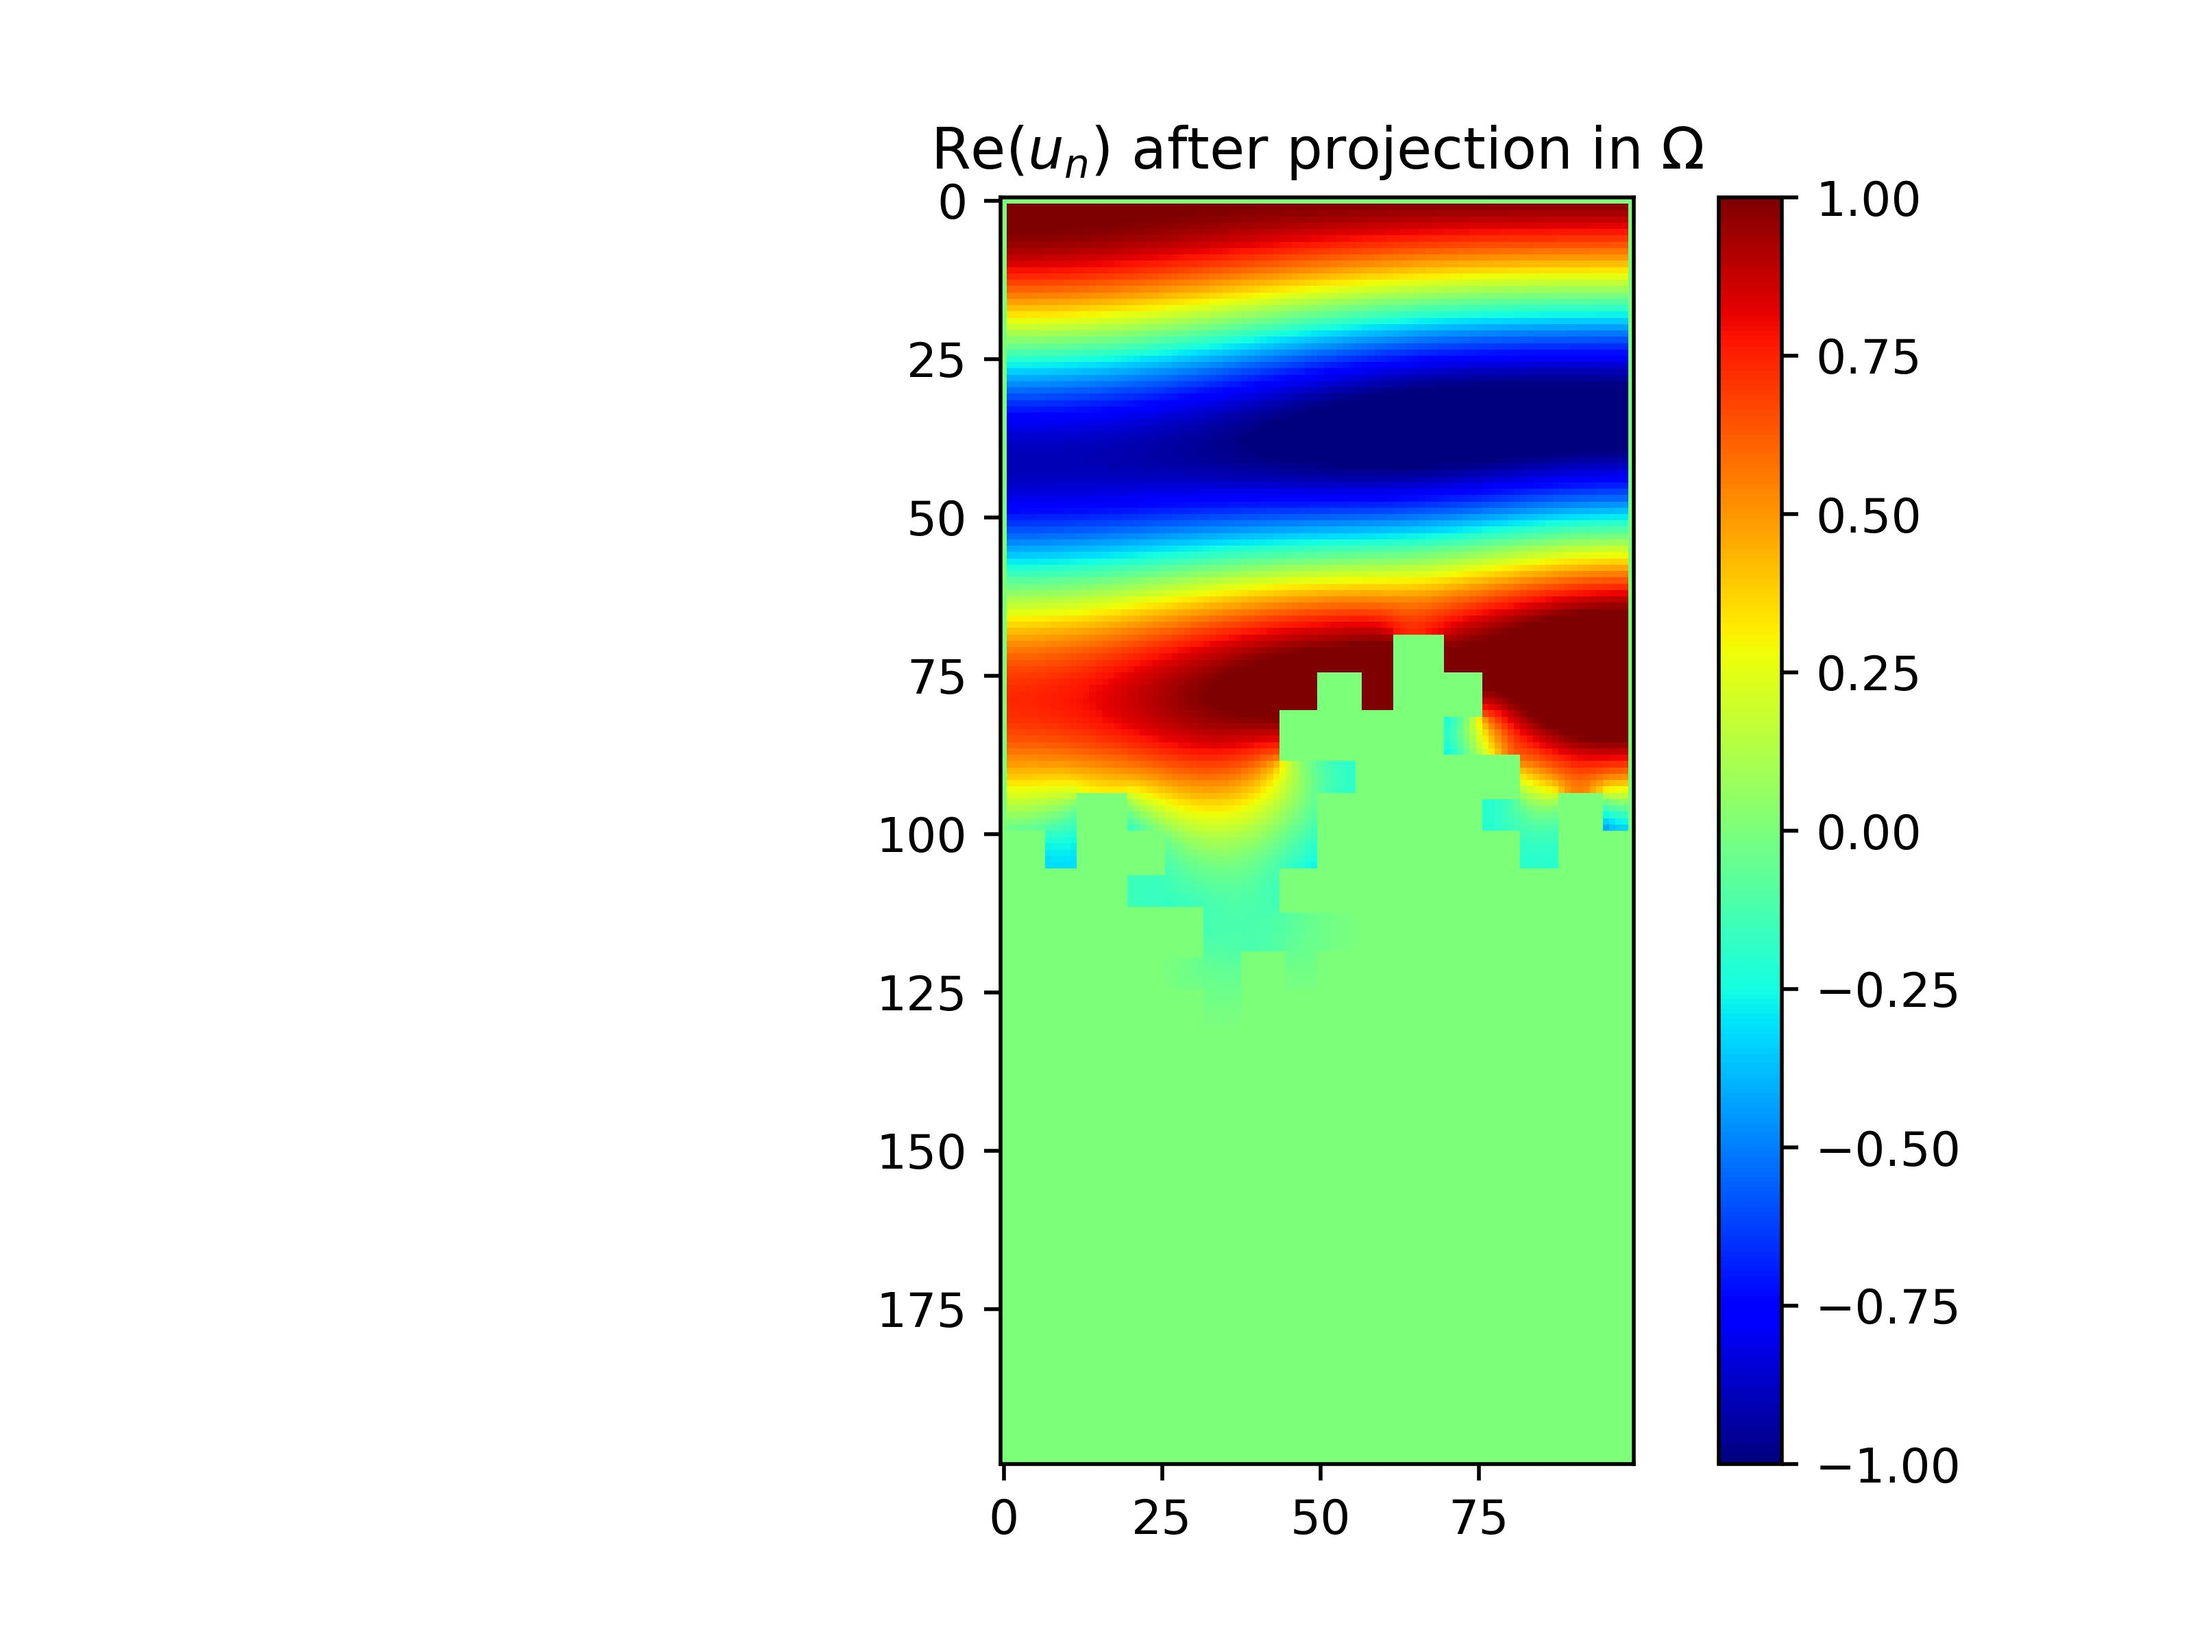
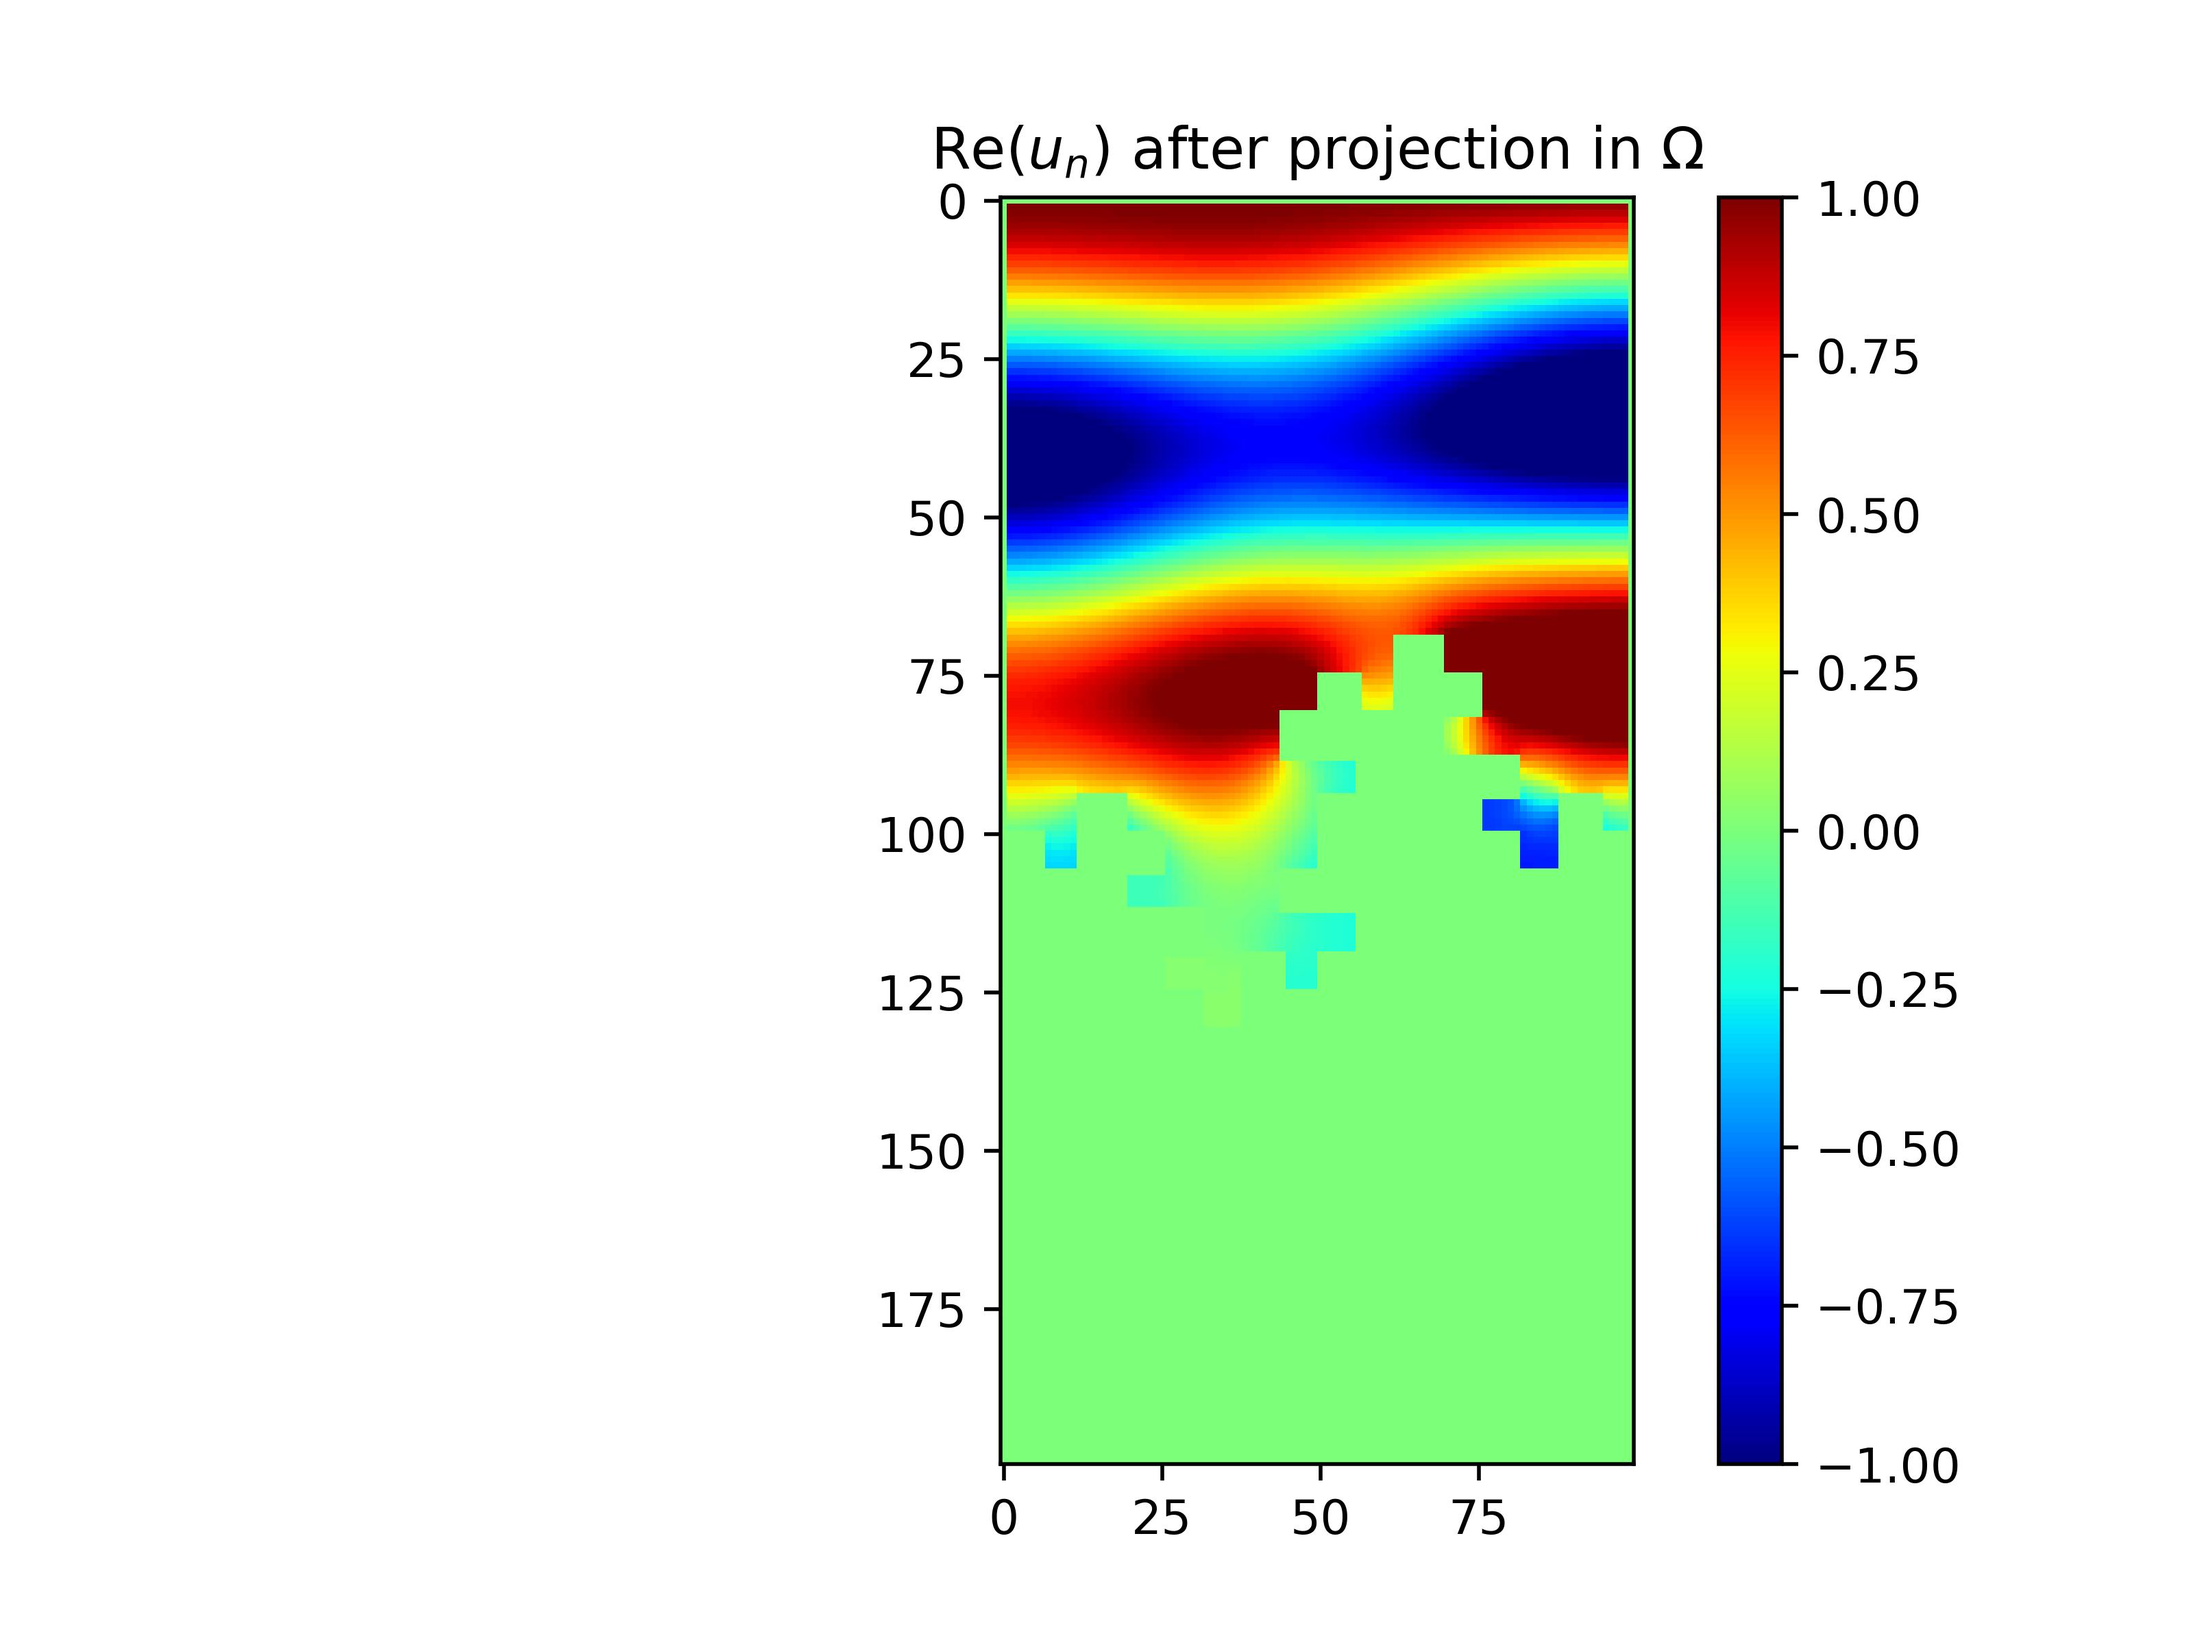
fixes

Changed region(s): [[0.4375, 0.125, 0.75, 0.625]]

diff --git a/src/minimization_algo.py b/src/minimization_algo.py
@@ -116,7 +116,7 @@ def sorting_method(domain, chi, V_obj, S):
     return chi_proj
 
 
-# Attention :  j'ai enlevé omega (la fréquence) dans les paramètres (pour le moment je ne vois pas en quoi cela influe sur notre methode d'optimisation)
+# Attention :  j'ai enlevé omega (la fréquence) dans les paramètres (car on peut le retrouver avec le wavenumber)
 def optimization_procedure(domain_omega, spacestep, f, f_dir, f_neu, f_rob,
                            beta_pde, alpha_pde, alpha_dir, beta_neu, beta_rob, alpha_rob,
                            Alpha, mu, chi, V_obj, wavenumber, S):
@@ -207,3 +207,76 @@ def compute_objective_function(domain_omega, u, spacestep):
     u_line = numpy.reshape(u_masked, -1)
     energy = numpy.sum(numpy.absolute(u_line)**2) * (spacestep**2)
     return energy
+
+
+
+def optimization_procedure_2(domain_omega, spacestep, f, f_dir, f_neu, f_rob,
+                           beta_pde, alpha_pde, alpha_dir, beta_neu, beta_rob, alpha_rob,
+                           Alpha, mu, chi, V_obj, wavenumber, S):
+    """This function return the optimized density.
+
+    Parameter:
+        cf solvehelmholtz's remarks
+        Alpha: complex, it corresponds to the absorbtion coefficient;
+        mu: float, it is the initial step of the gradient's descent;
+        V_obj: float, it characterizes the volume constraint on the density chi.
+
+        /!\ wavenumber est une liste de nombre d'ondes (correspondant à une plage de fréquences)
+    """
+
+    k = 0
+    (M, N) = numpy.shape(domain_omega)
+    numb_iter = 100
+    energy = []
+    while k < numb_iter and mu > EPSILON0:
+        print('---- iteration number = ', k)
+        ###### On update les conditions aux bord de Robin (puisque l'on a changé chi)
+        alpha_rob = Alpha * chi
+        u = processing.solve_helmholtz(domain_omega, spacestep, wavenumber, f, f_dir, f_neu, f_rob,
+                        beta_pde, alpha_pde, alpha_dir, beta_neu, beta_rob, alpha_rob)
+        ###### On souhaite résoudre le problème adjoint. On ajoute donc un terme source et on met la condition de dirichlet à 0 
+        f_adj = -2 * u.conj()
+        f_adj_dir = numpy.zeros((M, N), dtype=numpy.complex128)
+        p = processing.solve_helmholtz(domain_omega, spacestep, wavenumber, f_adj, f_adj_dir, f_neu, f_rob,
+                        beta_pde, alpha_pde, alpha_dir, beta_neu, beta_rob, alpha_rob)
+        
+        ### Calcul energie sur la plage de fréquences
+        
+        ene = compute_objective_function(domain_omega, u, spacestep)
+        energy.append(ene)
+        print(f"{k} ème energie", ene)
+        grad = numpy.real(Alpha * u * p)
+        print(f"{k} ème norme L2 du gradient", compute_objective_function(domain_omega, grad, spacestep))
+        while ene >= energy[k] and mu > EPSILON0:
+            new_chi = chi.copy()
+            new_chi_grad = compute_gradient_descent(new_chi, grad, domain_omega, mu)
+            new_chi_grad_projected = computeProjectors.my_compute_projection(new_chi_grad, domain_omega, V_obj, computeProjectors.rectified_linear)
+            alpha_rob = Alpha * new_chi_grad_projected
+            u = processing.solve_helmholtz(domain_omega, spacestep, wavenumber, f, f_dir, f_neu, f_rob,
+                        beta_pde, alpha_pde, alpha_dir, beta_neu, beta_rob, alpha_rob)
+            ene = compute_objective_function(domain_omega, u, spacestep)
+            if ene < energy[k]:
+                # The step is increased if the energy decreased
+                mu = mu * 1.1
+                chi = new_chi_grad_projected
+            else:
+                # The step is decreased if the energy increased
+                mu = mu * 0.5
+
+        k += 1
+
+        # Sortie de la boucle si la variation d'énergie est inférieure à un seuil
+        if k > 1 and abs(ene - energy[k-1]) < 10**(-3):
+            print("Fin car X_k+1 trop proche de X_k")
+            break
+
+
+    alpha_rob = Alpha * chi
+    u = processing.solve_helmholtz(domain_omega, spacestep, wavenumber, f, f_dir, f_neu, f_rob,
+                beta_pde, alpha_pde, alpha_dir, beta_neu, beta_rob, alpha_rob)
+    chi_projected = sorting_method(domain_omega, chi, V_obj, S)
+    alpha_rob = Alpha * chi_projected
+    u_projected = processing.solve_helmholtz(domain_omega, spacestep, wavenumber, f, f_dir, f_neu, f_rob,
+                beta_pde, alpha_pde, alpha_dir, beta_neu, beta_rob, alpha_rob)
+    
+    return chi, energy, u, grad, chi_projected, u_projected

diff --git a/src/main.py b/src/main.py
@@ -127,10 +127,10 @@ if __name__ == '__main__':
 
     # material = 'Melamine'               # Matériau choisi 
 
-    V_obj = 0.8
+    V_obj = 0.5 
     mu = 5
     # Alpha = 2.0 - 8.0 * 1j
-    launch_simulation(N, level, spacestep, wavenumber, V_obj, mu, chi_init=0)    
+    # launch_simulation(N, level, spacestep, wavenumber, V_obj, mu, chi_init=0)    
 
     
 
@@ -201,19 +201,36 @@ if __name__ == '__main__':
 
     """
     3) Tentative :
-    Je vais essayer de lancer K fois l'algo avec un départ différent pour éviter de stuck dans un minimum local et voir ce que ca donne
+    Je vais essayer de lancer K fois l'algo avec un départ $chi_0$ différent pour éviter de me bloquer dans un minimum local et voir ce que ca donne
     """
 
-    """
+    
     liste_energies_initiales = []
     liste_energies_finales = []
-    for _ in range(15):
+    for _ in range(50):
         energies = launch_simulation(N,level,spacestep,wavenumber,V_obj, mu, chi_init=1) 
         liste_energies_finales.append(energies[-1])
         liste_energies_initiales.append(energies[0])
 
  
-    print(liste_energies_initiales)
-    print(liste_energies_finales)
+    print("énergies de départ:", liste_energies_initiales)
+    print("énergies finales:", liste_energies_finales)
+    print("max énergies départ:", max(liste_energies_initiales))
+    print("min énergies départ:", min(liste_energies_initiales))
+    print("max énergies finale:", max(liste_energies_finales))
+    print("min énergies finale:", min(liste_energies_finales))
+
+    print("moyenne énergies départ:", numpy.mean(liste_energies_initiales))
+    print("moyenne énergies finales:", numpy.mean(liste_energies_finales))
+    print("écart-type énergies départ:", numpy.std(liste_energies_initiales))
+    print("écart-type énergies finales:", numpy.std(liste_energies_finales))
+
 
     """
+    4) Optimize the energy at once for several different frequencies 
+    
+    To do this we use the code in minimization_algo.py with optimization_procedure_2. It computes the sum of the energies for a given frequency band. 
+    """
+
+
+
